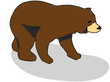
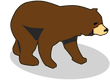
bears images modified

diff --git a/game/bear.js b/game/bear.js
@@ -9,7 +9,7 @@ function Bear(gameHeight, gameWidth, player) {
     this.drawX = 0;
     this.drawY = Math.floor(Math.random() * gameHeight);
     this.width = 110; 
-    this.height = 82;
+    this.height = 80;
     this.speed = player.speed * 0.9;
 
     // Добавляем свойства игры для доступа из методов Bear:
